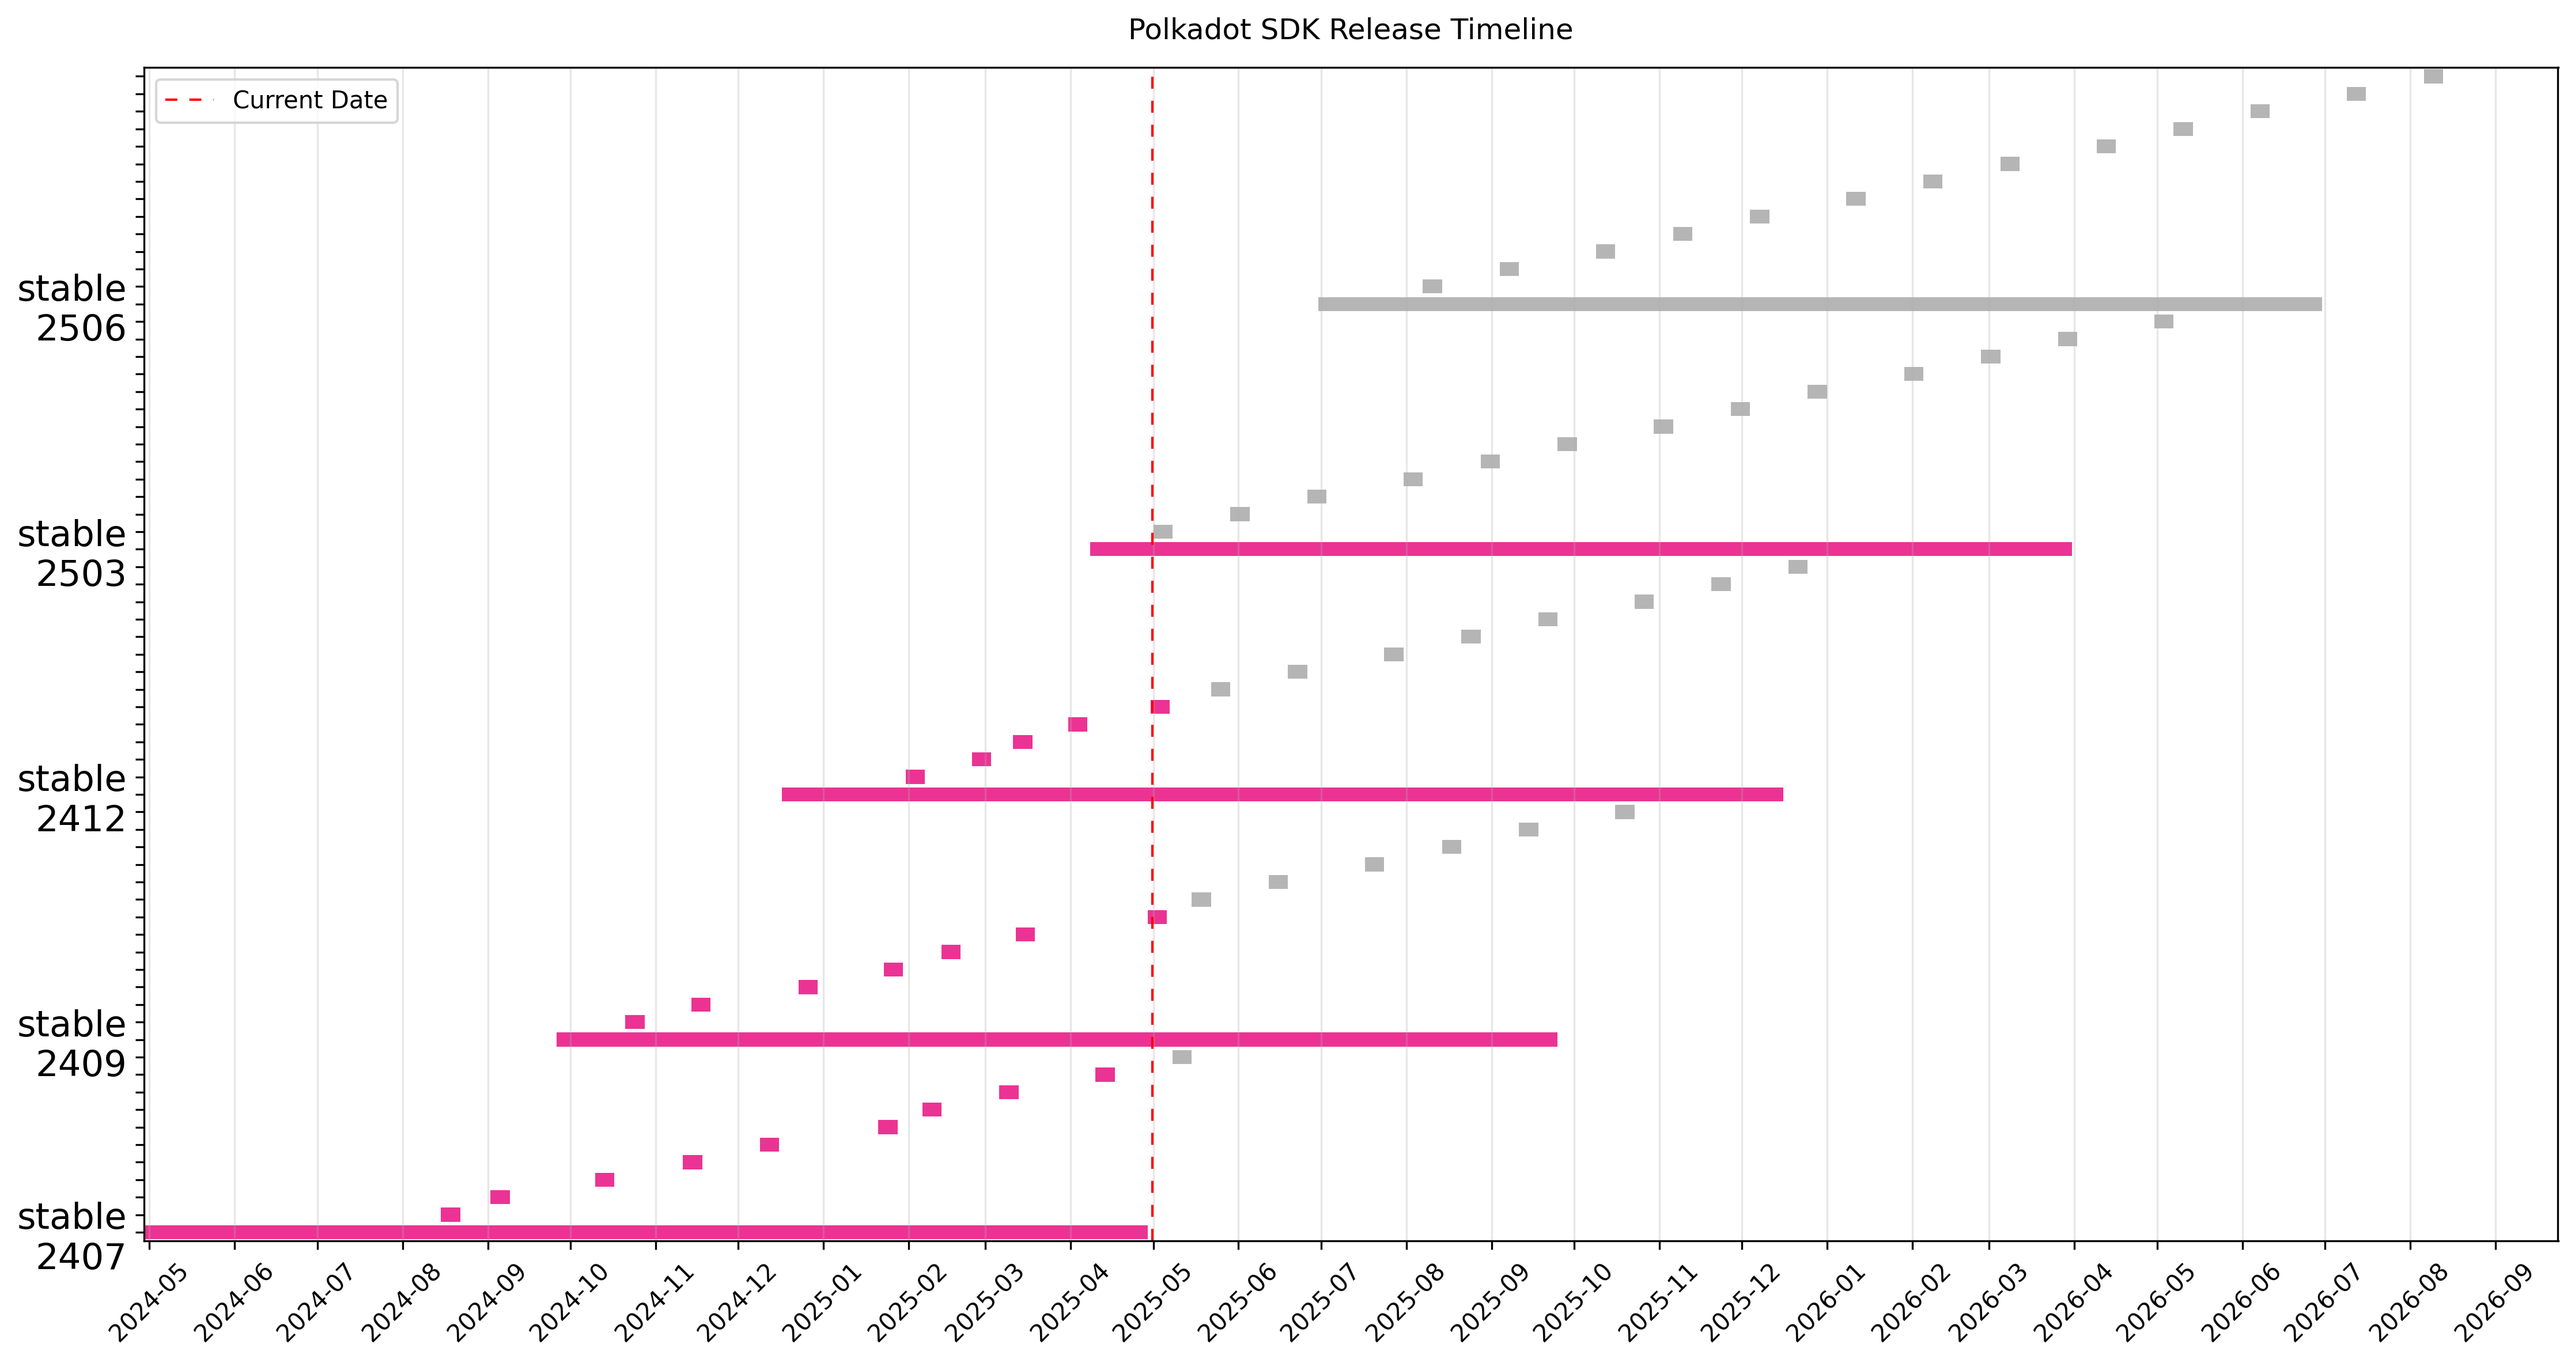
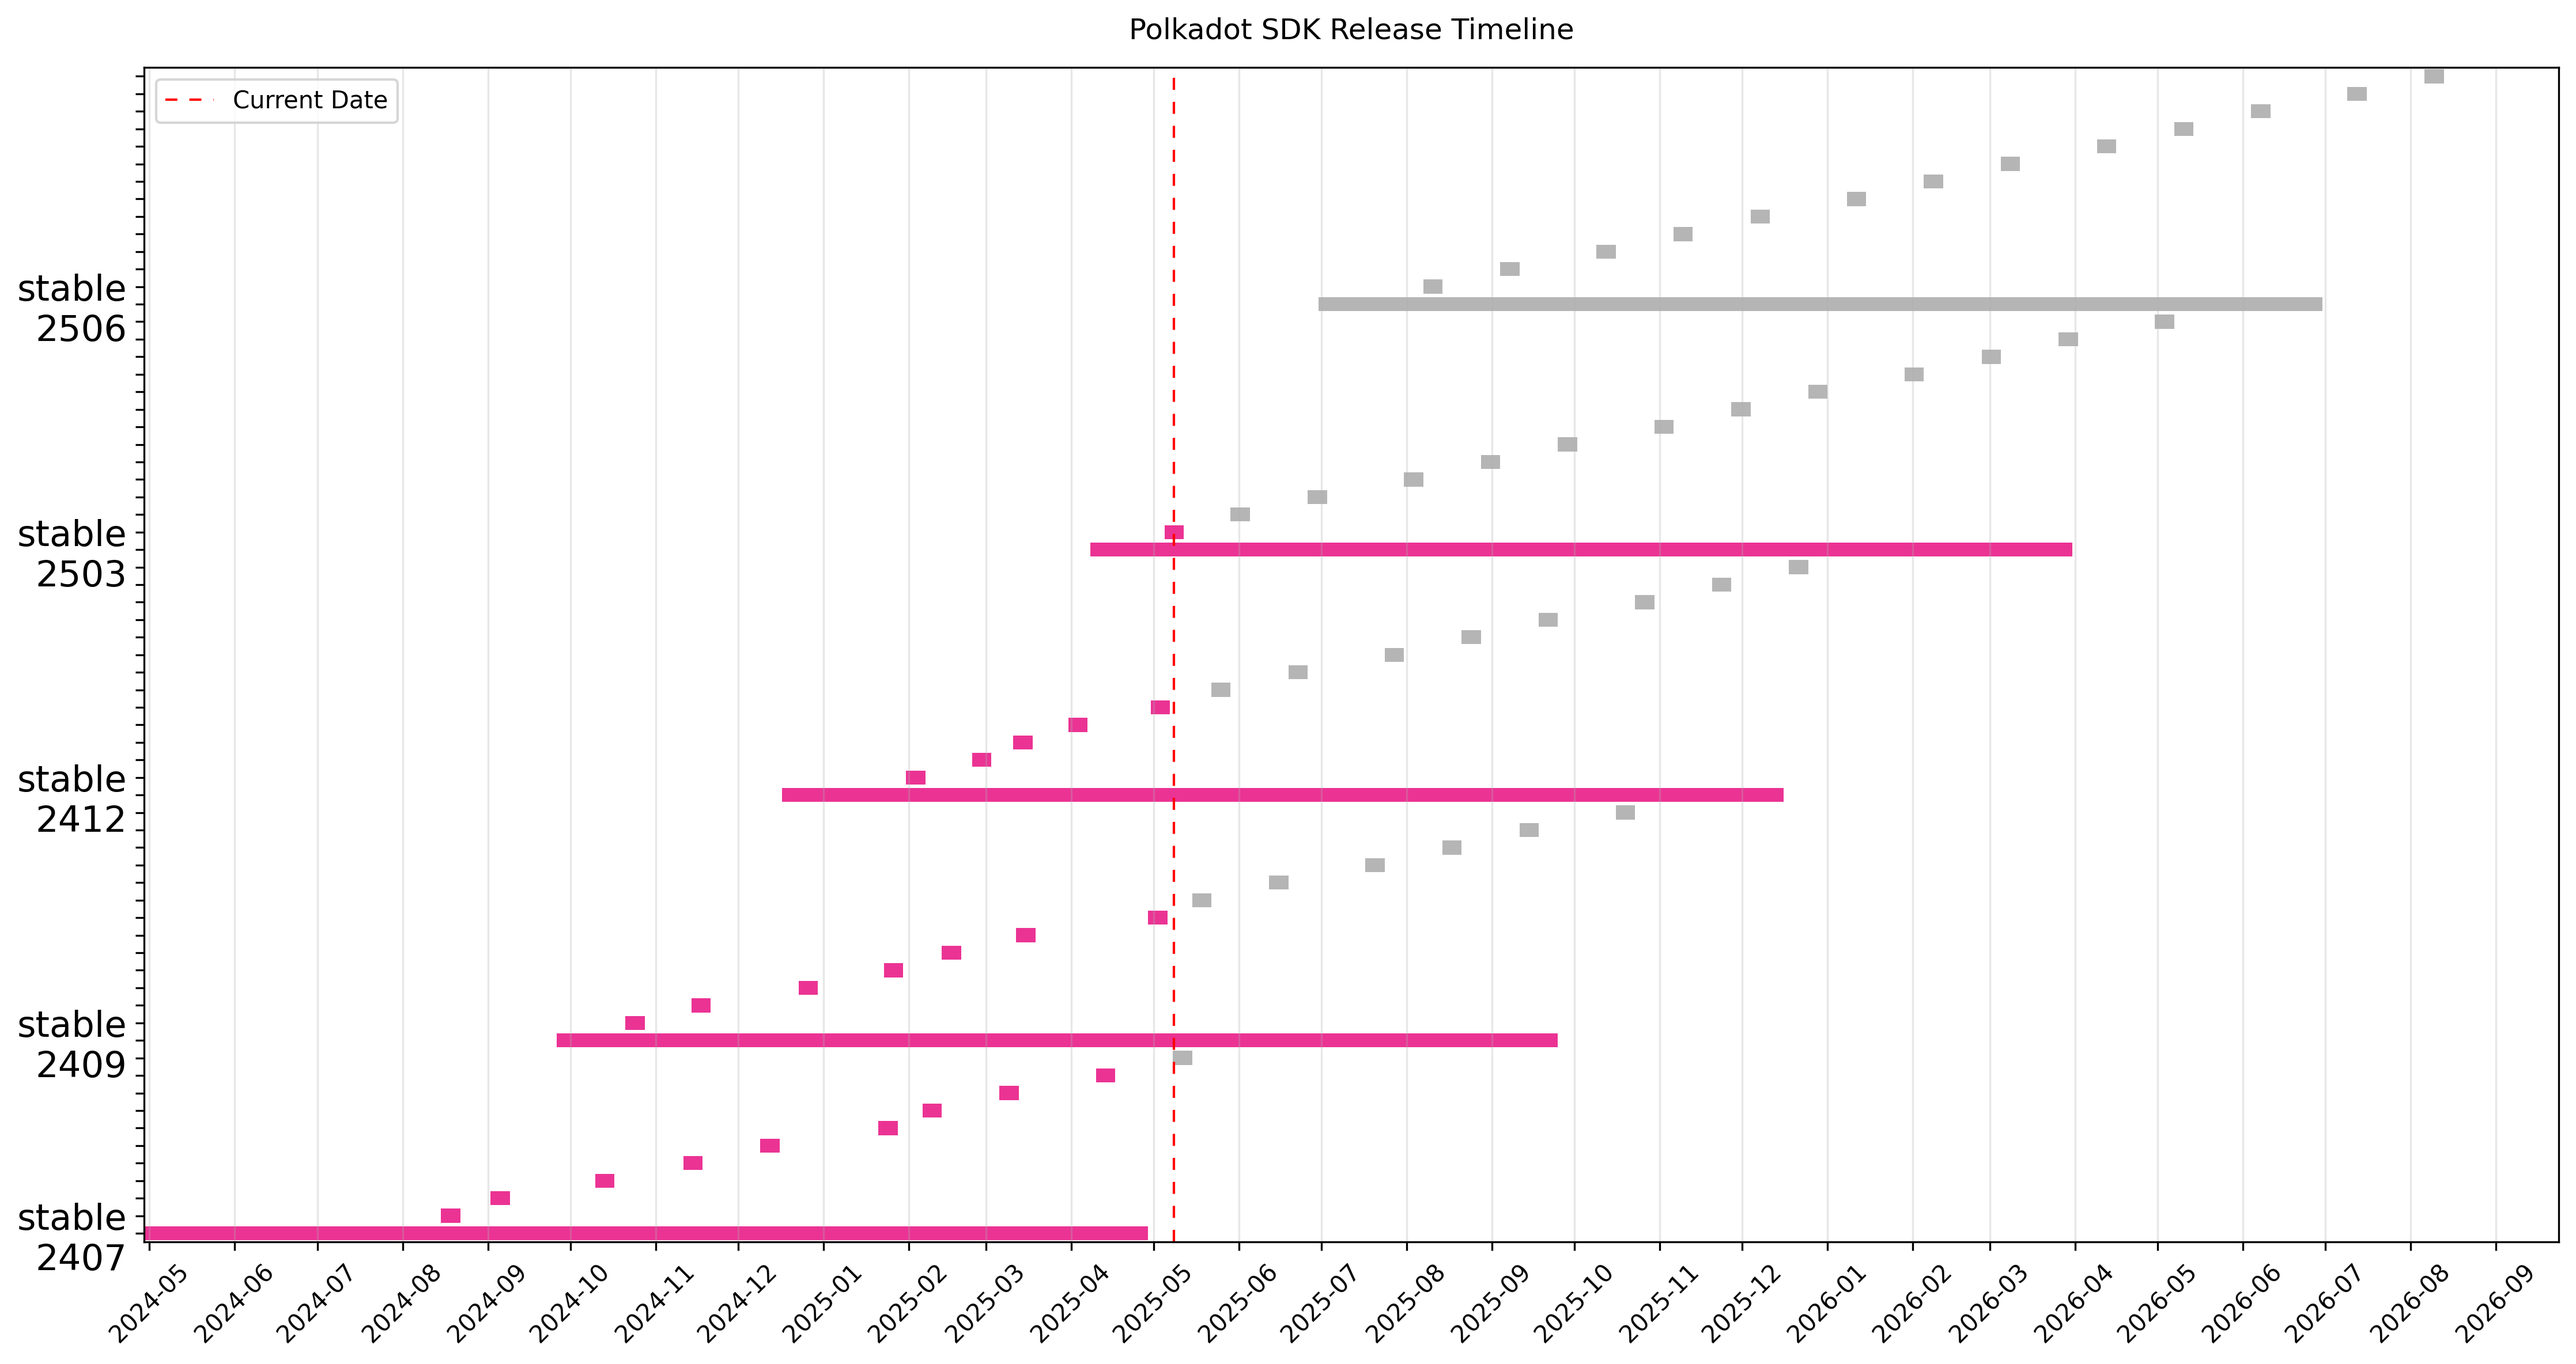
Release 2503-1

Changed region(s): [[0.4354, 0.3702, 0.4665, 0.4011]]

diff --git a/README.md b/README.md
@@ -38,9 +38,10 @@ Planned and historic release dates:
 | &nbsp;&nbsp;stable2412-7 | 2025-06-16 | 2025-06-19 |  | Planned |
 | &nbsp;&nbsp;[3 more past, 6 more planned](CALENDAR.md) |  |  | | |
 | **stable2503** | 2025-02-17 | 2025-04-08 | 2026-03-31 | [Released](https://github.com/paritytech/polkadot-sdk/releases/tag/polkadot-stable2503) |
-| &nbsp;&nbsp;stable2503-1 | 2025-04-28 | 2025-05-01 |  | Planned |
+| &nbsp;&nbsp;stable2503-1 | 2025-05-05 | 2025-05-05 |  | [Released](https://github.com/paritytech/polkadot-sdk/releases/tag/polkadot-stable2503-1) |
 | &nbsp;&nbsp;stable2503-2 | 2025-05-26 | 2025-05-29 |  | Planned |
-| &nbsp;&nbsp;[11 more planned](CALENDAR.md) |  |  | | |
+| &nbsp;&nbsp;stable2503-3 | 2025-06-23 | 2025-06-26 |  | Planned |
+| &nbsp;&nbsp;[10 more planned](CALENDAR.md) |  |  | | |
 | **stable2506** | 2025-05-15 | 2025-06-30 | 2026-06-30 | Planned |
 | &nbsp;&nbsp;stable2506-1 | 2025-08-04 | 2025-08-07 |  | Planned |
 | &nbsp;&nbsp;stable2506-2 | 2025-09-01 | 2025-09-04 |  | Planned |

diff --git a/CALENDAR.md b/CALENDAR.md
@@ -48,7 +48,7 @@ Full untruncated version index.
 | &nbsp;&nbsp;stable2412-12 | 2025-11-17 | 2025-11-20 |  | Planned |
 | &nbsp;&nbsp;stable2412-13 | 2025-12-15 | 2025-12-18 |  | Planned |
 | **stable2503** | 2025-02-17 | 2025-04-08 | 2026-03-31 | [Released](https://github.com/paritytech/polkadot-sdk/releases/tag/polkadot-stable2503) |
-| &nbsp;&nbsp;stable2503-1 | 2025-04-28 | 2025-05-01 |  | Planned |
+| &nbsp;&nbsp;stable2503-1 | 2025-05-05 | 2025-05-05 |  | [Released](https://github.com/paritytech/polkadot-sdk/releases/tag/polkadot-stable2503-1) |
 | &nbsp;&nbsp;stable2503-2 | 2025-05-26 | 2025-05-29 |  | Planned |
 | &nbsp;&nbsp;stable2503-3 | 2025-06-23 | 2025-06-26 |  | Planned |
 | &nbsp;&nbsp;stable2503-4 | 2025-07-28 | 2025-07-31 |  | Planned |
